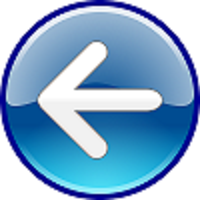
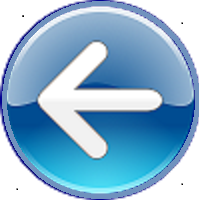
flechas 3d

diff --git a/css/estiloPokemon.css b/css/estiloPokemon.css
@@ -1,4 +1,4 @@
-@media only screen and (max-width: 600px) {
+@media only screen and (max-width: 768px) {
 	#img-box{
 		display: flex;
 		justify-content: center;
@@ -34,19 +34,25 @@
 	display: flex;
 	align-items: center;
 }
-.cajas-flechas img:active{
+
+.cajas-flechas img {
+	opacity: 70%;
+	box-shadow: 0 9px #999;
+	transition: all ease 0.05s;
+	background: linear-gradient(to bottom, #ffffff 0%, #e5e5e5 100%);
+	border-radius: 50%;
+	border-color: #666;
+}
+
+.cajas-flechas img:hover {
+	opacity: 100%;
+	background: linear-gradient(to bottom, #e5e5e5 0%, #ffffff 100%);
+}
+
+.cajas-flechas img:active {
 	box-shadow: 0 5px #666;
 	transform: translateY(4px);
-}
-
-.cajas-flechas img:hover{
-	opacity:100%;
-}
-
-.cajas-flechas img{
-	opacity: 70%;
-	box-shadow:0 9px #999;
-	transition: all ease 0.05s;
+	background: linear-gradient(to bottom, #e5e5e5 0%, #ffffff 50%, #e5e5e5 100%);
 }
 
 
